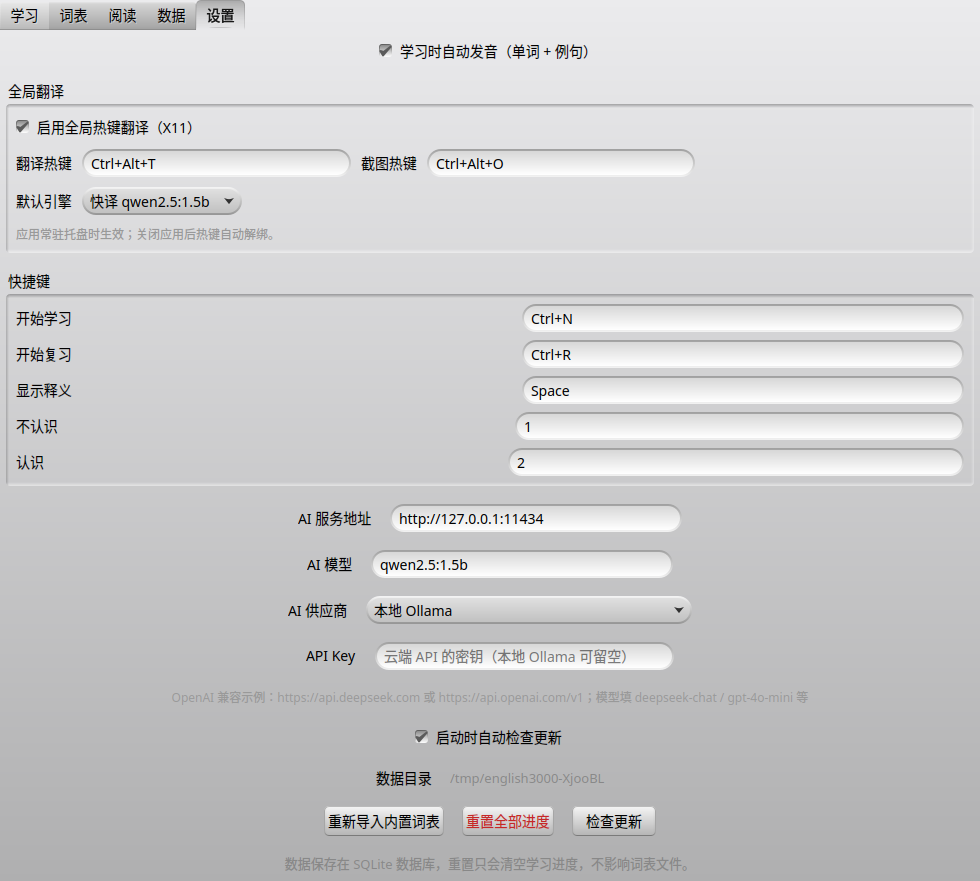
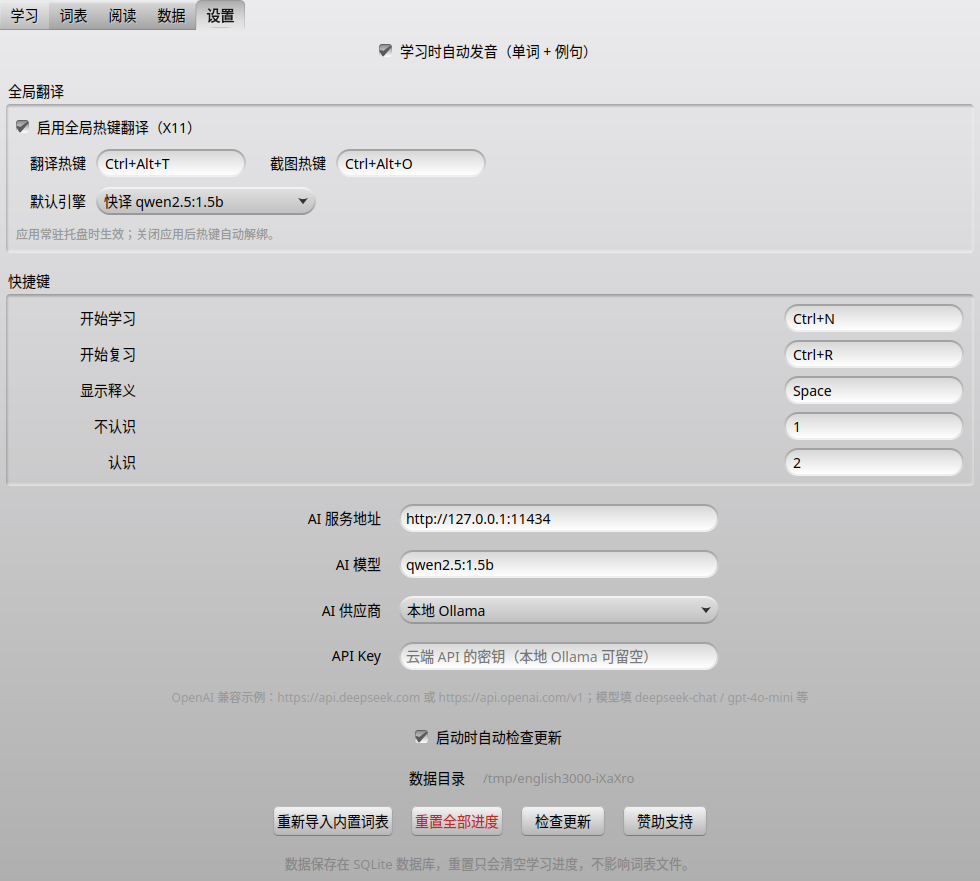
设置页布局对齐：统一标签列宽与控件宽度

diff --git a/src/mainwindow.cpp b/src/mainwindow.cpp
@@ -732,6 +732,21 @@ void MainWindow::buildSettings()
     layout->setSpacing(18);
     layout->addStretch();
 
+    auto addRow = [layout](const QString &labelText, QWidget *widget,
+                           int widgetWidth = 320) {
+        auto *row = new QHBoxLayout;
+        row->addStretch();
+        auto *label = new QLabel(labelText);
+        label->setFixedWidth(120);
+        label->setAlignment(Qt::AlignRight | Qt::AlignVCenter);
+        row->addWidget(label);
+        if (widgetWidth > 0)
+            widget->setFixedWidth(widgetWidth);
+        row->addWidget(widget);
+        row->addStretch();
+        layout->addLayout(row);
+    };
+
     auto *pronounceRow = new QHBoxLayout;
     pronounceRow->addStretch();
     m_autoPronounceCheck = new QCheckBox(
@@ -770,8 +785,12 @@ void MainWindow::buildSettings()
     transLayout->addWidget(m_translateEnableCheck);
 
     auto *hotkeyRow = new QHBoxLayout;
-    hotkeyRow->addWidget(new QLabel(QStringLiteral("翻译热键"), transGroup));
+    auto *hotkeyLabel1 = new QLabel(QStringLiteral("翻译热键"), transGroup);
+    hotkeyLabel1->setFixedWidth(70);
+    hotkeyLabel1->setAlignment(Qt::AlignRight | Qt::AlignVCenter);
+    hotkeyRow->addWidget(hotkeyLabel1);
     m_translateHotkeyEdit = new QKeySequenceEdit(transGroup);
+    m_translateHotkeyEdit->setFixedWidth(150);
     m_translateHotkeyEdit->setKeySequence(QKeySequence(
         m_store->getSetting(QStringLiteral("translate_hotkey"),
                             QStringLiteral("Ctrl+Alt+T"))));
@@ -783,9 +802,12 @@ void MainWindow::buildSettings()
                 applyHotkeys();
             });
     hotkeyRow->addWidget(m_translateHotkeyEdit);
-    hotkeyRow->addWidget(
-        new QLabel(QStringLiteral("截图热键"), transGroup));
+    auto *hotkeyLabel2 = new QLabel(QStringLiteral("截图热键"), transGroup);
+    hotkeyLabel2->setFixedWidth(70);
+    hotkeyLabel2->setAlignment(Qt::AlignRight | Qt::AlignVCenter);
+    hotkeyRow->addWidget(hotkeyLabel2);
     m_screenshotHotkeyEdit = new QKeySequenceEdit(transGroup);
+    m_screenshotHotkeyEdit->setFixedWidth(150);
     m_screenshotHotkeyEdit->setKeySequence(QKeySequence(
         m_store->getSetting(QStringLiteral("translate_screenshot_hotkey"),
                             QStringLiteral("Ctrl+Alt+O"))));
@@ -801,8 +823,12 @@ void MainWindow::buildSettings()
     transLayout->addLayout(hotkeyRow);
 
     auto *modelRow = new QHBoxLayout;
-    modelRow->addWidget(new QLabel(QStringLiteral("默认引擎"), transGroup));
+    auto *modelLabel = new QLabel(QStringLiteral("默认引擎"), transGroup);
+    modelLabel->setFixedWidth(70);
+    modelLabel->setAlignment(Qt::AlignRight | Qt::AlignVCenter);
+    modelRow->addWidget(modelLabel);
     m_translateModelCombo = new QComboBox(transGroup);
+    m_translateModelCombo->setFixedWidth(220);
     m_translateModelCombo->addItem(QStringLiteral("快译 qwen2.5:1.5b"),
                                    QStringLiteral("qwen2.5:1.5b"));
     m_translateModelCombo->addItem(QStringLiteral("精译 qwen3:14b"),
@@ -837,9 +863,13 @@ void MainWindow::buildSettings()
                           const QString &settingKey,
                           const QString &def) {
         auto *row = new QHBoxLayout;
-        row->addWidget(new QLabel(label, shortcutGroup));
+        auto *lbl = new QLabel(label, shortcutGroup);
+        lbl->setFixedWidth(120);
+        lbl->setAlignment(Qt::AlignRight | Qt::AlignVCenter);
+        row->addWidget(lbl);
         row->addStretch();
         out = new QKeySequenceEdit(shortcutGroup);
+        out->setFixedWidth(180);
         out->setKeySequence(
             QKeySequence(m_store->getSetting(settingKey, def)));
         row->addWidget(out);
@@ -863,43 +893,28 @@ void MainWindow::buildSettings()
                QStringLiteral("hotkey_known"), QStringLiteral("2"));
     layout->addWidget(shortcutGroup);
 
-    auto *aiUrlRow = new QHBoxLayout;
-    aiUrlRow->addStretch();
-    aiUrlRow->addWidget(new QLabel(QStringLiteral("AI 服务地址"), page));
     m_aiUrlEdit = new QLineEdit(page);
     m_aiUrlEdit->setText(
         m_store->getSetting(QStringLiteral("ai_base_url"),
                             QStringLiteral("http://127.0.0.1:11434")));
-    m_aiUrlEdit->setMinimumWidth(260);
     connect(m_aiUrlEdit, &QLineEdit::editingFinished, this, [this] {
         m_store->setSetting(QStringLiteral("ai_base_url"),
                             m_aiUrlEdit->text().trimmed());
         applyAiSettings();
     });
-    aiUrlRow->addWidget(m_aiUrlEdit);
-    aiUrlRow->addStretch();
-    layout->addLayout(aiUrlRow);
+    addRow(QStringLiteral("AI 服务地址"), m_aiUrlEdit);
 
-    auto *aiModelRow = new QHBoxLayout;
-    aiModelRow->addStretch();
-    aiModelRow->addWidget(new QLabel(QStringLiteral("AI 模型"), page));
     m_aiModelEdit = new QLineEdit(page);
     m_aiModelEdit->setText(
         m_store->getSetting(QStringLiteral("ai_model"),
                             QStringLiteral("qwen2.5:1.5b")));
-    m_aiModelEdit->setMinimumWidth(260);
     connect(m_aiModelEdit, &QLineEdit::editingFinished, this, [this] {
         m_store->setSetting(QStringLiteral("ai_model"),
                             m_aiModelEdit->text().trimmed());
         applyAiSettings();
     });
-    aiModelRow->addWidget(m_aiModelEdit);
-    aiModelRow->addStretch();
-    layout->addLayout(aiModelRow);
+    addRow(QStringLiteral("AI 模型"), m_aiModelEdit);
 
-    auto *aiProviderRow = new QHBoxLayout;
-    aiProviderRow->addStretch();
-    aiProviderRow->addWidget(new QLabel(QStringLiteral("AI 供应商"), page));
     m_aiProviderCombo = new QComboBox(page);
     m_aiProviderCombo->addItem(
         QStringLiteral("本地 Ollama"),
@@ -918,28 +933,20 @@ void MainWindow::buildSettings()
                     m_aiProviderCombo->itemData(index).toString());
                 applyAiSettings();
             });
-    aiProviderRow->addWidget(m_aiProviderCombo);
-    aiProviderRow->addStretch();
-    layout->addLayout(aiProviderRow);
+    addRow(QStringLiteral("AI 供应商"), m_aiProviderCombo, 320);
 
-    auto *aiKeyRow = new QHBoxLayout;
-    aiKeyRow->addStretch();
-    aiKeyRow->addWidget(new QLabel(QStringLiteral("API Key"), page));
     m_aiKeyEdit = new QLineEdit(page);
     m_aiKeyEdit->setEchoMode(QLineEdit::Password);
     m_aiKeyEdit->setText(
         m_store->getSetting(QStringLiteral("ai_api_key")));
     m_aiKeyEdit->setPlaceholderText(
         QStringLiteral("云端 API 的密钥（本地 Ollama 可留空）"));
-    m_aiKeyEdit->setMinimumWidth(260);
     connect(m_aiKeyEdit, &QLineEdit::editingFinished, this, [this] {
         m_store->setSetting(QStringLiteral("ai_api_key"),
                             m_aiKeyEdit->text().trimmed());
         applyAiSettings();
     });
-    aiKeyRow->addWidget(m_aiKeyEdit);
-    aiKeyRow->addStretch();
-    layout->addLayout(aiKeyRow);
+    addRow(QStringLiteral("API Key"), m_aiKeyEdit);
 
     auto *aiHint = new QLabel(
         QStringLiteral("OpenAI 兼容示例：https://api.deepseek.com 或 "
@@ -967,14 +974,9 @@ void MainWindow::buildSettings()
     updateRow->addStretch();
     layout->addLayout(updateRow);
 
-    auto *dataRow = new QHBoxLayout;
-    dataRow->addStretch();
-    dataRow->addWidget(new QLabel(QStringLiteral("数据目录"), page));
     m_dataDirLabel = new QLabel(QFileInfo(m_store->dbPath()).absolutePath(), page);
     m_dataDirLabel->setObjectName(QStringLiteral("statCaption"));
-    dataRow->addWidget(m_dataDirLabel);
-    dataRow->addStretch();
-    layout->addLayout(dataRow);
+    addRow(QStringLiteral("数据目录"), m_dataDirLabel, 0);
 
     auto *buttonRow = new QHBoxLayout;
     buttonRow->addStretch();
